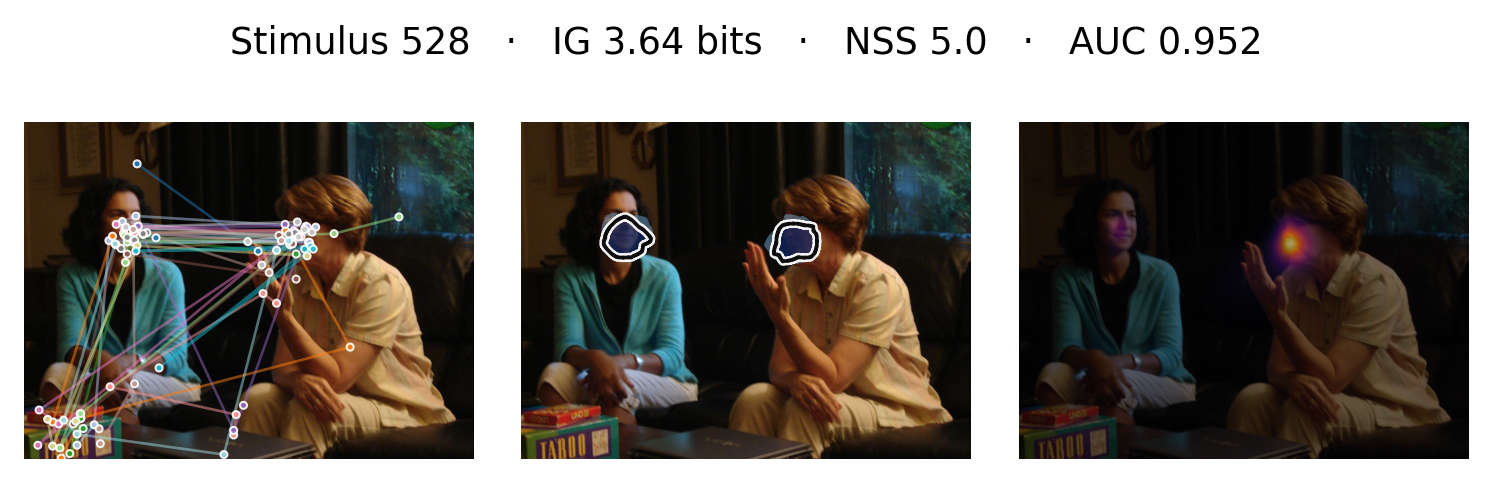
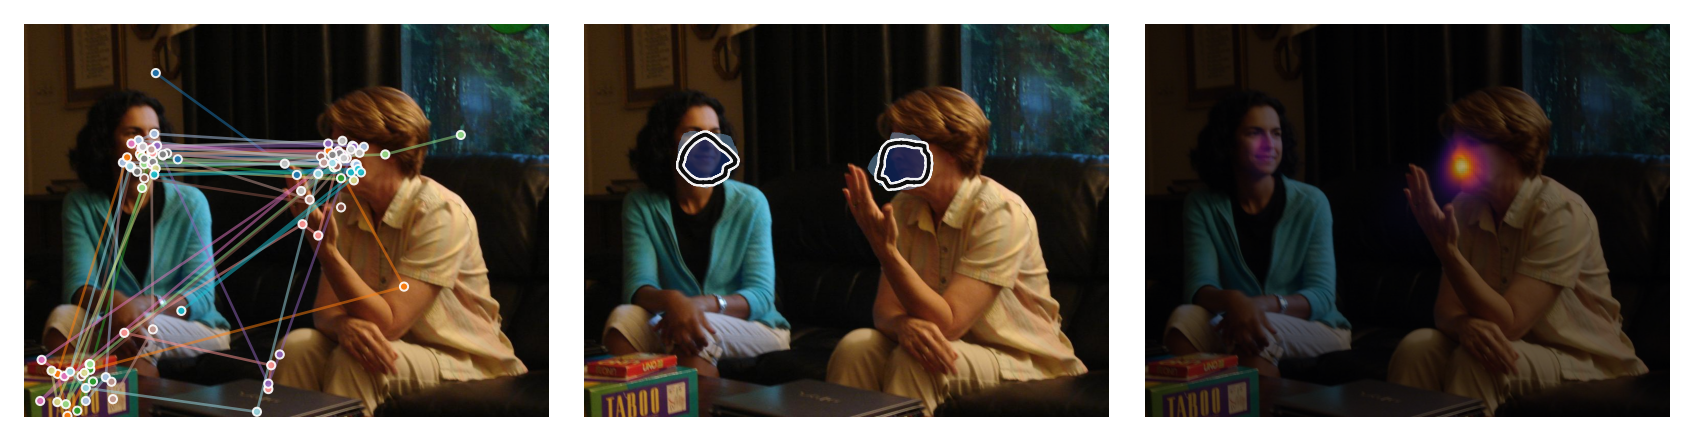
Consensus panels for the extremes figures without title bands, at full text width
demo_consensus_panel.py gains --no-titles (no stimulus line, no A/B/C
headings); the six panels ch04 stacks are regenerated with it at the full
text width, in two figures of three whose captions name the stimuli and
their metrics.

diff --git a/scripts/demo_consensus_panel.py b/scripts/demo_consensus_panel.py
@@ -18,14 +18,15 @@ Usage:
     python scripts/demo_consensus_panel.py --stim-indices 71 77 91 455 522 876 884
     python scripts/demo_consensus_panel.py --stim-indices 91 --radius 60
 
-The six composites ch04 stacks (the extremes of Figure "The extreme stimuli by
-information gain") carry the stimulus's per-image IG, NSS and AUC in the title,
-read from the per-image diagnostic, and only the first carries the A/B/C panel
-headings:
+The six composites ch04 stacks in two figures (the three highest and the three
+lowest stimuli by information gain) carry no titles at all -- the caption names
+each stimulus and its IG, NSS and AUC -- and are drawn for the full text width:
 
     python scripts/demo_consensus_panel.py --stim-indices 128 704 528 750 639 489 \
-        --metrics-from results/per_image_diagnostic_initial_1003/diagnostic.json \
-        --titles-first-only
+        --no-titles --page-frac 1.0
+
+``--metrics-from`` puts the per-image metrics in the title instead, and
+``--titles-first-only`` keeps the A/B/C headings on the first stimulus only.
 """
 from __future__ import annotations
 
@@ -68,8 +69,9 @@ def run(args) -> None:
         fig, summary = build_consensus_panel(
             sidx, stimuli=stimuli, fixations=fixations, model=model, device=device,
             radius=args.radius, out_dir=DEFAULT_OUT, title_suffix=suffix,
-            panel_titles=(k == 0) or not args.titles_first_only,
+            panel_titles=(not args.no_titles) and ((k == 0) or not args.titles_first_only),
             page_frac=args.page_frac,
+            suptitle=not args.no_titles,
         )
         plt.close(fig)
         elapsed = time.time() - t0
@@ -88,6 +90,9 @@ def main() -> None:
                          "AUC in its title")
     ap.add_argument("--titles-first-only", action="store_true",
                     help="A/B/C panel headings on the first stimulus only")
+    ap.add_argument("--no-titles", action="store_true",
+                    help="no stimulus line and no A/B/C headings (the ch04 stacks; "
+                         "their caption carries the stimulus and its metrics)")
     ap.add_argument("--page-frac", type=float, default=0.89,
                     help="fraction of the text width the composite prints at (the ch04 "
                          "stack of six uses 0.5)")

diff --git a/src/tez_deepgaze/consensus_panel.py b/src/tez_deepgaze/consensus_panel.py
@@ -68,6 +68,7 @@ def build_consensus_panel(
     title_suffix: str = "",
     panel_titles: bool = True,
     page_frac: float = 0.89,
+    suptitle: bool = True,
 ):
     """Build the 3-panel consensus figure for one stimulus.
 
@@ -145,7 +146,10 @@ def build_consensus_panel(
     # The stimulus number, not the MIT filename: the number is what the chapter
     # and every other figure refer to, and the filename identifies nothing a
     # reader of the thesis can look up.
-    fig.suptitle(f"Stimulus {stim_idx}{title_suffix}", fontsize=11)
+    # ``suptitle=False`` drops the stimulus line as well, for the ch04 stacks whose
+    # caption names the stimulus and its metrics; the rows then sit flush.
+    if suptitle:
+        fig.suptitle(f"Stimulus {stim_idx}{title_suffix}", fontsize=11)
     fig.tight_layout()
 
     summary = {

diff --git a/notebooks/README.md b/notebooks/README.md
@@ -44,7 +44,7 @@ chapter includes the figure.
 | `foveation_mit1003/next_pixel_check_stim0091.png` | — | notebook 05 · `scripts/next_pixel_check.py`. A README figure |
 | `foveation_mit1003/intro_scanpath_stim0091.png` | ch01 | notebook 06 · `scripts/demo_intro_scanpath.py` |
 | `per_image_diagnostic_initial_1003/scatter.png` | ch04 | notebook 07 §1 · `scripts/per_image_diagnostic.py --replot --out results/per_image_diagnostic_initial_1003` redraws it from the committed JSON on a laptop; computing it (`--n-stim 1003 --dataset-variant initial`) is **cluster only** |
-| `consensus_panels/consensus_stim*.png` — the six ch04 stacks (128 704 528 750 639 489) | ch04 | notebook 02, last cell · `scripts/demo_consensus_panel.py --stim-indices 128 704 528 750 639 489 --metrics-from results/per_image_diagnostic_initial_1003/diagnostic.json --titles-first-only --page-frac 0.5`, which puts each stimulus's IG/NSS/AUC in its title and the A/B/C headings on the first only |
+| `consensus_panels/consensus_stim*.png` — the six of ch04's two extremes figures (128 704 528 / 750 639 489) | ch04 | notebook 02, last cell · `scripts/demo_consensus_panel.py --stim-indices 128 704 528 750 639 489 --no-titles --page-frac 1.0` — no in-image titles; the caption names each stimulus and its IG, NSS and AUC |
 | `consensus_panels/consensus_method.png` | appendix | notebook 04 · `scripts/make_protocol_figures.py --only consensus_method` — it writes here rather than into `figs/` |
 | `foveation_mit1003_initial/figs/entropy_panel.png` | ch03 | `scripts/entropy_panel.py` — reads the committed `diagnostic.json` and the fixation data; no model, no GPU |
 | `foveation_mit1003_initial/stratified/index_profile.json` (the fixation-index paragraph of ch04 §Where the cost falls) | ch04 | `scripts/index_profile.py` — aggregates the gitignored per-fixation dumps, as `collect_training_curves.py` does for the checkpoints |
